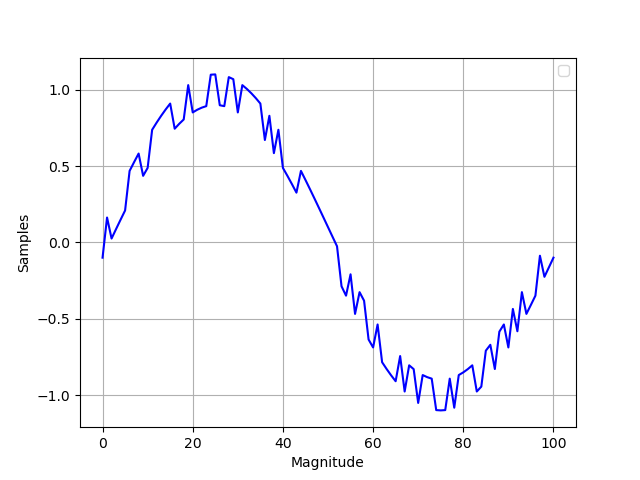
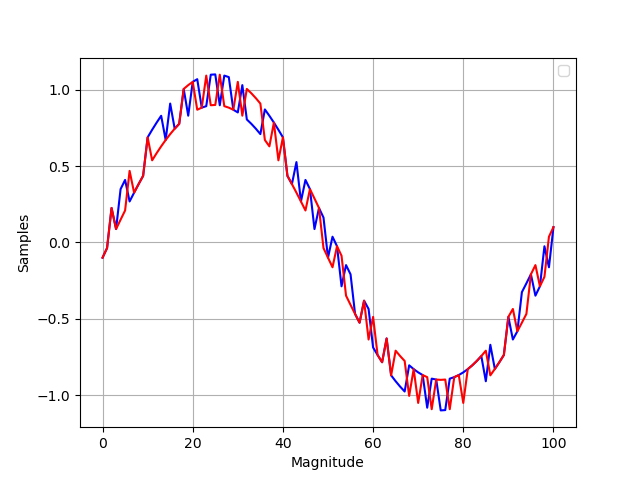
Cpp code works fine with d input. And cpp output is visualized on d side.

Changed region(s): [[0.1562, 0.1562, 0.875, 0.875]]

diff --git a/cpp/app.cpp b/cpp/app.cpp
@@ -205,16 +205,15 @@ int main()
 {
     vectord b_coeff = { 0.1, 0.1 };
     vectord a_coeff = { 0.1, 0.1 };
-
-    //vectord input_signal = { /* Some input data to be filtered */ };
-    //vectord y_filter_ori = { /* MATLAB output from calling y_filter_ori = filter(b_coeff, a_coeff, input_signal); */ };
-    //vectord y_filtfilt_ori = { /* MATLAB output from calling y_filtfilt_ori = filtfilt(b_coeff, a_coeff, input_signal); */ };
-
     vectord input_signal = { -0.1,-0.0372095,0.225333,0.0873813,0.14869,0.209017,0.468125,0.325779,0.381754,0.435827,0.687785,0.537424,0.584547,0.628969,0.670513,0.709017,0.744328,0.776307,1.00483,1.02978,1.05106,0.868583,0.882287,1.09211,0.898027,0.9,1.09803,0.892115,0.882287,0.868583,1.05106,0.829776,1.00483,0.976307,0.944328,0.909017,0.670513,0.628969,0.784547,0.537424,0.687785,0.435827,0.381754,0.325779,0.268125,0.209017,0.34869,0.287381,0.225333,-0.0372095,-0.1,-0.162791,-0.0253332,-0.0873813,-0.34869,-0.409017,-0.468125,-0.525779,-0.381754,-0.635827,-0.487785,-0.737424,-0.784547,-0.628969,-0.870513,-0.709017,-0.744328,-0.776307,-1.00483,-0.829776,-1.05106,-0.868583,-0.882287,-1.09211,-0.898027,-0.9,-0.898027,-1.09211,-0.882287,-0.868583,-1.05106,-0.829776,-0.804827,-0.776307,-0.744328,-0.709017,-0.870513,-0.828969,-0.784547,-0.737424,-0.487785,-0.435827,-0.581754,-0.525779,-0.468125,-0.209017,-0.14869,-0.287381,-0.225333,0.0372095,0.1 };
 
     vectord y_filter_out; vectord zi = { 0 };
     filter(b_coeff, a_coeff, input_signal, y_filter_out, zi);
-    //std::cout << compare(y_filter_out, y_filter_ori, 0.0001) << std::endl;
+
+    for (int i = 0; i<y_filter_out.size(); ++i) {
+        std::cout << y_filter_out[i] << ", "; 
+    }
+    std::cout << std::endl;
 
     vectord y_filtfilt_out;
     filtfilt(b_coeff, a_coeff, input_signal, y_filtfilt_out);
